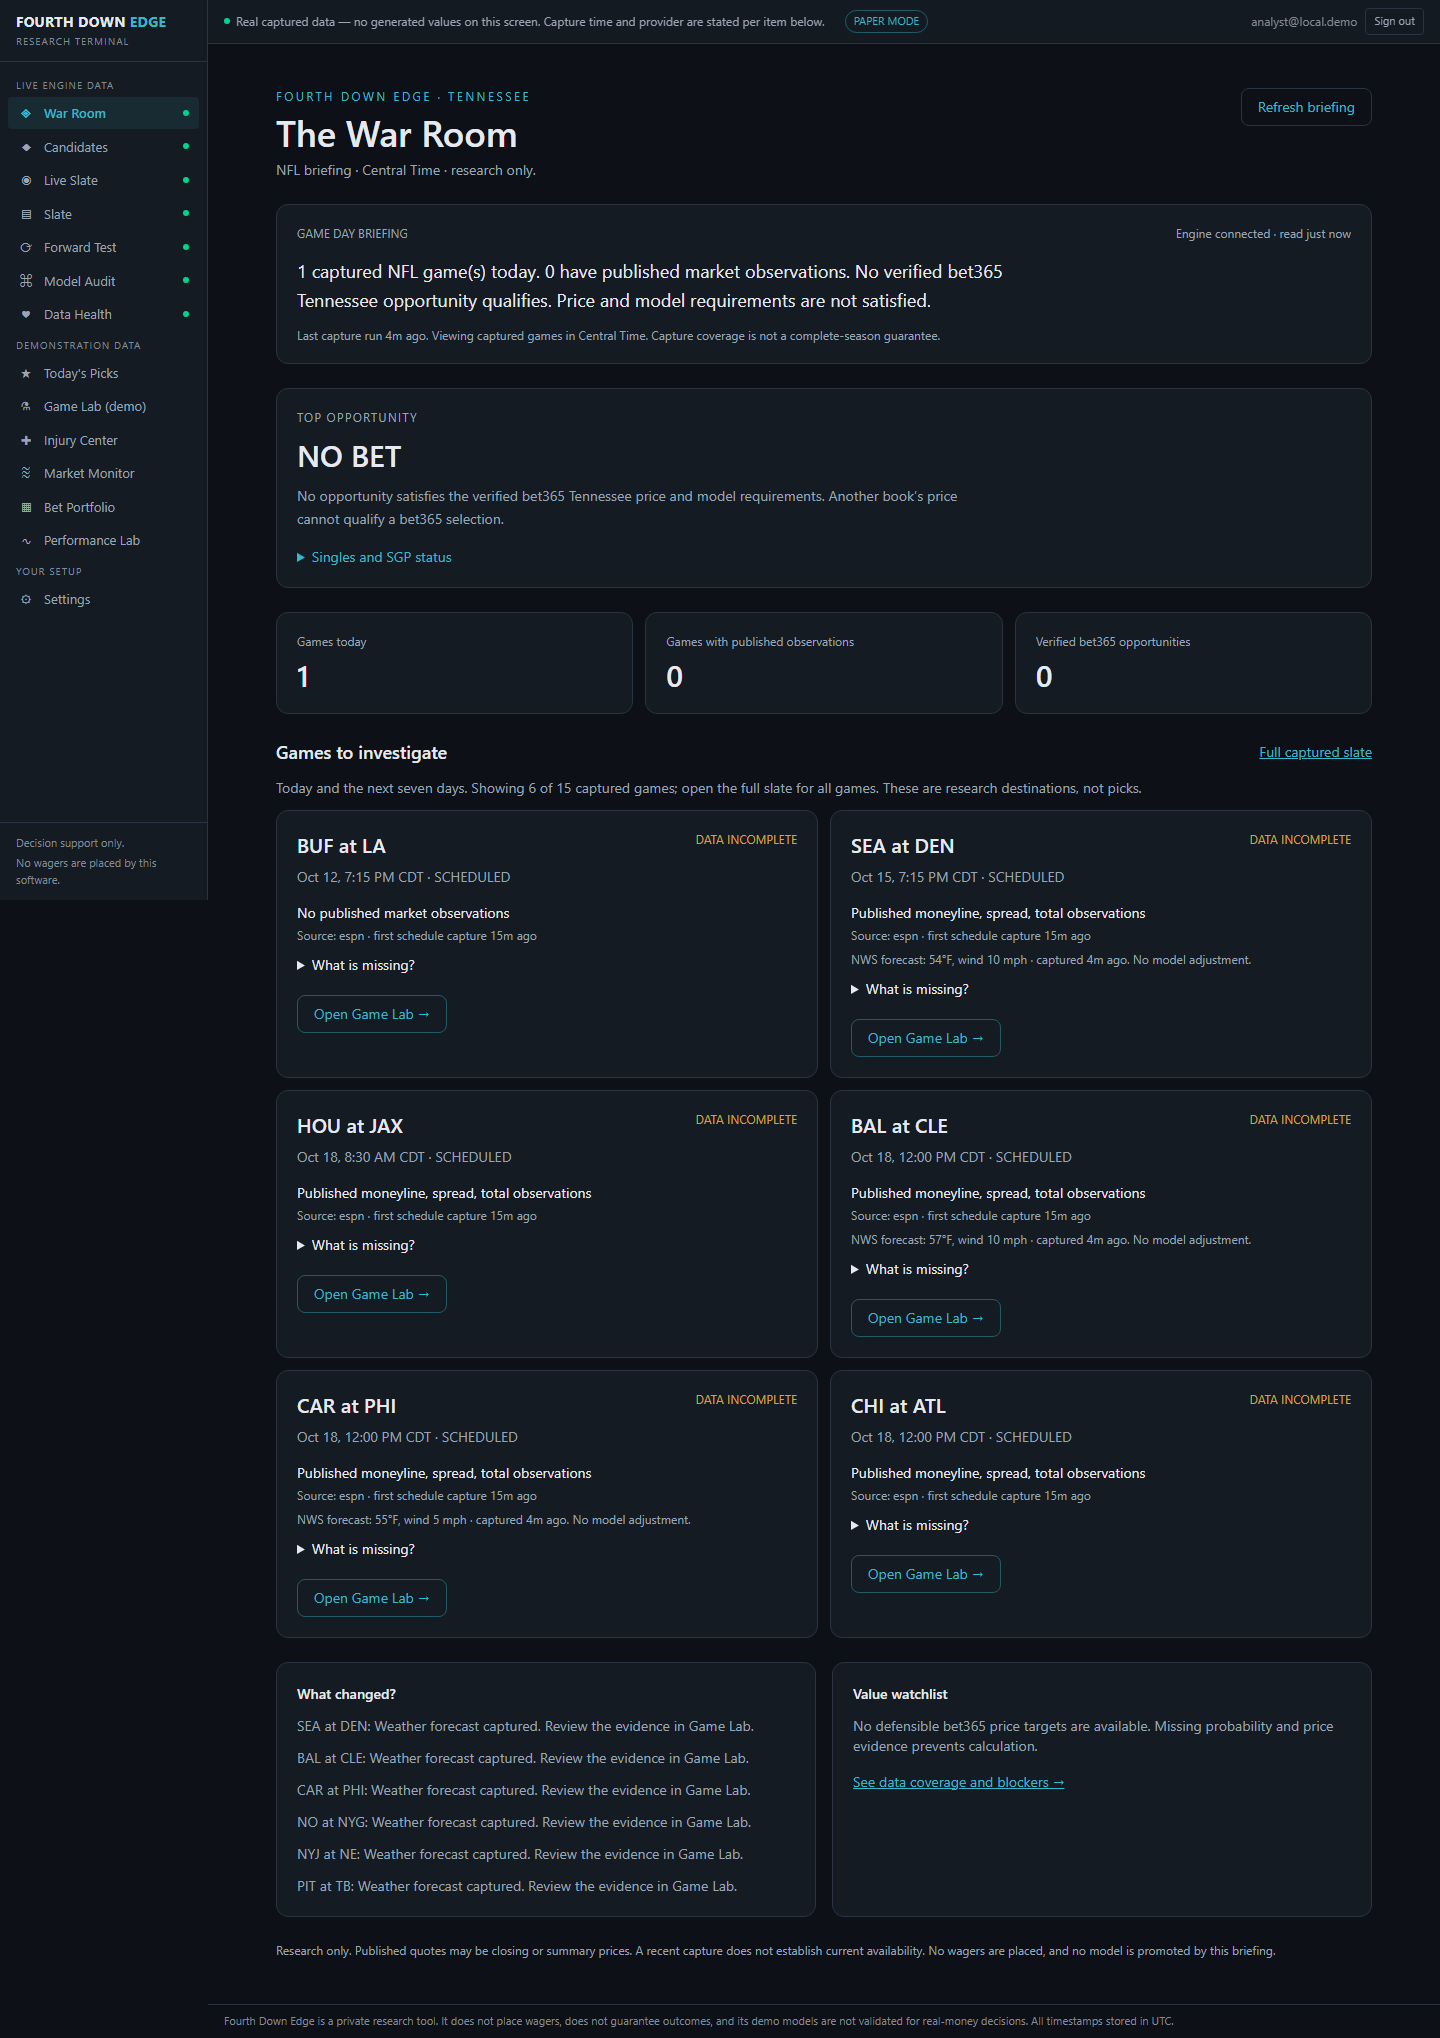
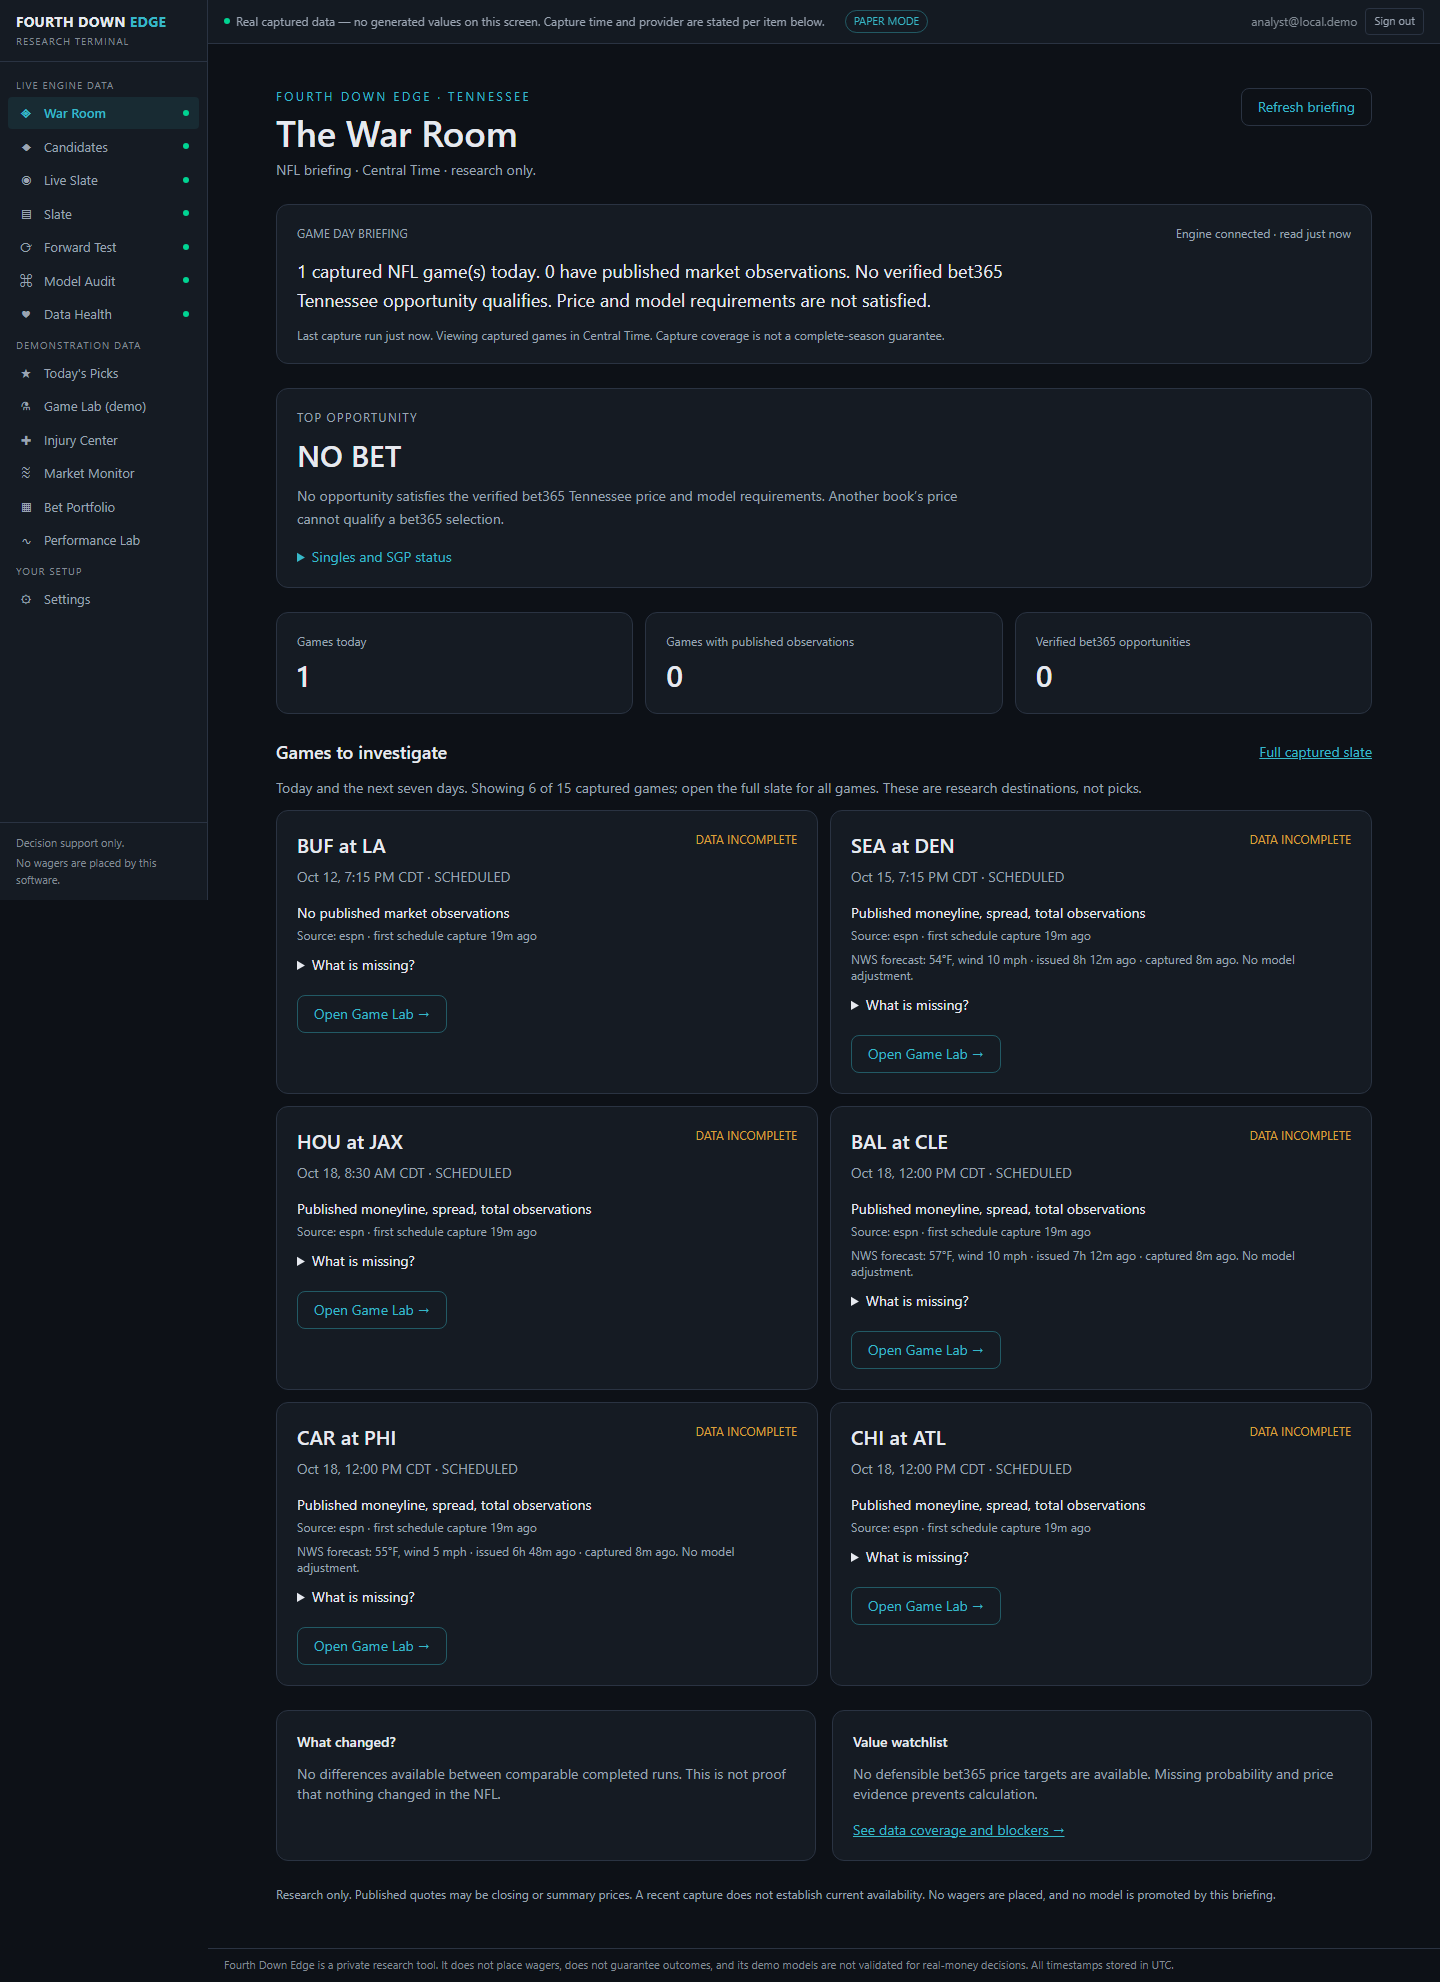
Isolate research artifacts and clarify forecast issuance

diff --git a/apps/web/src/pages/WarRoom.tsx b/apps/web/src/pages/WarRoom.tsx
@@ -21,6 +21,7 @@ const schema = z.object({
     quote_count: z.number(), research_records: z.array(z.object({ id: z.number(), status: z.string(), cohort: z.string() })),
     schedule: z.object({ source: z.string(), captured_at: z.string(), capture_age_seconds: z.number() }),
     weather: z.object({ source: z.string(), captured_at: z.string(),
+      source_updated_at: z.string().nullable(),
       temp_f: z.number().nullable(), wind_mph: z.number().nullable(),
     }).nullable(),
   })),
@@ -82,7 +83,7 @@ export default function WarRoom() {
           <p className="mt-2 text-sm text-ink-muted">{fmtInstant(game.kickoff_utc)} · {game.game_status}</p>
           <p className="mt-4 text-sm text-ink">{game.markets_observed.length ? `Published ${game.markets_observed.join(', ').toLowerCase()} observations` : 'No published market observations'}</p>
           <p className="mt-1 text-xs text-ink-muted">Source: {game.schedule.source} · first schedule capture {fmtAgoLive(game.schedule.captured_at)}</p>
-          {game.weather && <p className="mt-2 text-xs text-ink-muted">{game.weather.source.toUpperCase()} forecast: {game.weather.temp_f == null ? 'temperature unavailable' : `${game.weather.temp_f}°F`}, {game.weather.wind_mph == null ? 'wind unavailable' : `wind ${game.weather.wind_mph} mph`} · captured {fmtAgoLive(game.weather.captured_at)}. No model adjustment.</p>}
+          {game.weather && <p className="mt-2 text-xs text-ink-muted">{game.weather.source.toUpperCase()} forecast: {game.weather.temp_f == null ? 'temperature unavailable' : `${game.weather.temp_f}°F`}, {game.weather.wind_mph == null ? 'wind unavailable' : `wind ${game.weather.wind_mph} mph`} · {game.weather.source_updated_at ? `issued ${fmtAgoLive(game.weather.source_updated_at)}` : 'issue time unknown'} · captured {fmtAgoLive(game.weather.captured_at)}. No model adjustment.</p>}
           <details className="mt-3 text-sm text-ink-muted"><summary className="cursor-pointer text-ink">What is missing?</summary><ul className="mt-2 space-y-1">{game.missing.map(reason => <li key={reason}>{reason}</li>)}</ul><p className="mt-2">{game.research_records.length} recorded assessment(s), kept separate by study cohort. These do not qualify a current bet365 offer.</p></details>
           <Link className="mt-5 inline-block rounded-lg border border-accent/40 px-4 py-2 text-sm text-accent" to={`/live/game/${encodeURIComponent(game.canonical_game_id)}`}>Open Game Lab →</Link>
         </article>)}</div>

diff --git a/apps/api/src/fde_api/forward/research_weather.py b/apps/api/src/fde_api/forward/research_weather.py
@@ -66,7 +66,9 @@ def collect_weather(s: Session, *, now: datetime) -> dict[str, int]:
                               updated_at=now)
                 s.add(venue)
                 s.flush()
-            if venue.verification_status != "VERIFIED" or venue.roof_type != "OUTDOOR":
+            if (venue.verification_status != "VERIFIED" or venue.roof_type != "OUTDOOR"
+                    or venue.country != "US" or not venue.weather_applicable
+                    or venue.latitude is None or venue.longitude is None):
                 counts["weather_not_attempted"] += 1
                 continue
             attempts += 1

diff --git a/apps/api/scripts/run_research.py b/apps/api/scripts/run_research.py
@@ -38,6 +38,7 @@ def main() -> int:
 
 def run(args: argparse.Namespace, target: Path) -> int:
     os.environ["FDE_DATABASE_URL"] = f"sqlite:///{target.as_posix()}"
+    os.environ["FDE_DATA_DIR"] = str(target.parent / (target.stem + ".research-data"))
     from espn_live_capture import discover, fetch, persist, within_utc_window
     from sqlalchemy.orm import sessionmaker
 
